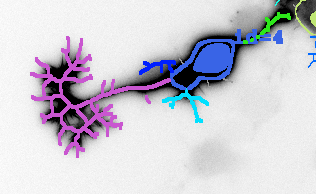
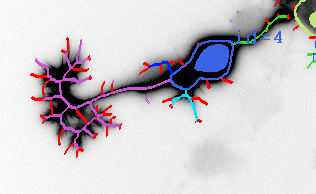
isbi

diff --git a/papers/13/ISBI/results.tex b/papers/13/ISBI/results.tex
@@ -31,7 +31,7 @@
       enhancement/retardation of nucleus speed,  which was impossible to observe
       through static analysis.  }
     \label{fig:quantitative_analysis}
-    %\vspace{-7mm}
+    \vspace{-4mm}
 \end{figure*}
 %----------------------------------------------------------------------------
 
@@ -62,9 +62,9 @@ of~\cite{Pertz08}, 2) quantify previously observed but unmeasured morphodynamics
 and 3) uncover  new dynamic behaviors.
 A brief summary of our findings is provided below and in 
 Fig~\ref{fig:quantitative_analysis}. Further details can be found in our 
-supplementary tables and videos.
-%\href{http://www.kev-smith.com/ISBI2013/}{online supplementary tables and videos}.
-The findings reported below all have statistically  significant measures,  with 
+%supplementary tables and videos.
+\href{http://www.kev-smith.com/ISBI2013/}{online supplementary tables and videos}.
+Findings reported below have statistically significant measures,  with 
 a $p$-value $<< 0.05$.
 
 
@@ -74,8 +74,8 @@ resulted in fewer but longer neurites than the control. SrGap loss was
 found to have longer neurites, and  Map2K7 loss was found to have
 more neurites but of shorter length.  These findings  were confirmed by 
 static measures from
-our experiments: the mean longest  neurite length -- control $22.6 \mu
-m$, RhoA-3 $32  \mu$m, SrGap2-1 $28.9 \mu$m,  and Map2K7-1 $19.5 \mu$m  
+our experiments: the mean longest  neurite length -- control $22.6 \mu$m,
+ RhoA-3 $32  \mu$m, SrGap2-1 $28.9 \mu$m,  and Map2K7-1 $19.5 \mu$m  
 (see  Fig.~\ref{fig:quantitative_analysis}a);  and  by  a  dynamic
 measure --  the mean  number of neurites  belonging a neuron  over its
 lifetime: control 3.4, RhoA 3.1, and Map2K7-1 3.9.
@@ -85,18 +85,21 @@ SrGap2 function  produces a  high number of  filopodia, and  that RhoA
 loss  results  in neurites  that  easily  extend  but have  difficulty
 retracting. Morphodynamic features from our analysis confirmed these
 observations. Mean number of filopodia detected per  neurite over its lifetime was $6.69$
-in the control  and $8.81$ for SrGap-3$^1$. The  mean change in elongation
+in the control  and $8.81$ for SrGap-3.%$^1$. 
+The  mean change in elongation
 as measured  by an ellipse fitted  to the neurite was  $5.7\%$ for the
 control        and        $5.3\%$        for        RhoA-1        (see
-Fig.~\ref{fig:quantitative_analysis}b)$^1$. While this difference may seem
+Fig.~\ref{fig:quantitative_analysis}b).
+%$^1$. 
+While this difference may seem
 small,  it is  statiscially significant due  to the  large amount  of  data collected
-($p$-value is $2 \times 10^{-7}$).
+($p$-value of $2 \times 10^{-7}$).
 
 Our quantitative analysis revealed new morphodynamics which
 were not obvious to human  observers. We found that RhoA function loss
 slowed  neuron motility and  Map2K7 increased  it.  Control cells
-moved at  .30 $\mu  m / min$,  RhoA moved  at .23 $\mu  m /  min$, and
-Map2K7-2     moved     at    .37     $\mu     m     /    min$     (see
+moved at  .30 $\mu  \text{m} / \text{min}$,  RhoA moved  at .23 $\mu  \text{m} /  \text{min}$, and
+Map2K7-2     moved     at    .37     $\mu     \text{m}     /    \text{min}$     (see
 Fig.~\ref{fig:quantitative_analysis}c).  We  also found that  RhoA and
 SrGap  increased the  branching of  the
 neurites.
@@ -104,8 +107,9 @@ neurites.
 Over the course
 of a  neurites lifetime, the maximum  number of branches  in a control
 neuron    was    14.5,   19.44    for    RhoA-3,    and   21.39    for
-SrGap2-3\footnote{Only neurons containing  the  $10^{th}$  percentile  of
-  longest neurites were considered.}.
+SrGap2-3.
+
+%\footnote{Only neurons containing  the  $10^{th}$  percentile  of longest neurites were considered.}.
 
 
 

diff --git a/papers/13/ISBI/intro.tex b/papers/13/ISBI/intro.tex
@@ -70,9 +70,9 @@ new dynamic behaviors which are only apparant through dynamic analysis.
 %----------------------------------------------------------------------------
 \begin{figure*}[t]
        \begin{tabular}{@{\hspace{0mm}}c@{}|@{}c@{}|@{}c@{}}
-        \includegraphics[width=60mm] {images/mv1_008_crop.png} &
-        \includegraphics[width=60mm] {images/mv1_017_crop.png}  &
-        \includegraphics[width=60mm] {images/mv1_026_crop.png} \\ [-.8ex]
+        \includegraphics[width=60mm] {images/mv1_008.png} &
+        \includegraphics[width=60mm] {images/mv1_017.png}  &
+        \includegraphics[width=60mm] {images/mv1_026.png} \\ [-.8ex]
         \hline \\ [-2.9ex]
        \end{tabular} 
       \begin{tabular}{@{\hspace{0mm}}c@{}c@{}|@{}c@{}c@{}|@{}c@{}c@{}}
@@ -88,15 +88,19 @@ new dynamic behaviors which are only apparant through dynamic analysis.
       \end{tabular} 
     \vspace{-2mm}  
     \caption{\footnotesize Our approach tracks and segments the entire neuron. The top
-        row contains our results from an experiment where 
-	MAP2K7 gene functions are inhibited.  Image contrast has been 
-	enhanced for visibility.  Tracked neurons are marked by a unique color and id.   
+        row contains results from an experiment with inhibited 
+	MAP2K7 functions.    Tracked neurons are marked by a unique color and id.   
 	Nuclei  are denoted  by  filled  ellipsoids, somata  as
         contours,  and neurites  as trees.   The bottom shows details
         from  above: {\it (left)}  original  image {\it (right)}  individual neurites
-        marked with a different colors. Our  approach   performs  well  even  in  challenging
-        situations where neurons appear in close proximity. Note: faintly  stained
-        cells are ignored for robustness.}
+        marked with various colors. Filopodia are marked in red. 
+	Our  approach   performs  well  even  in  challenging
+        situations where neurons appear in close proximity. Note: contrast has been 
+	enhanced for visibility, faintly  stained
+        cells are ignored for robustness.
+	Video results can be viewed in our 
+	\href{http://www.kev-smith.com/ISBI2013/}{online supplementary tables and videos}.
+	}
     \label{fig:video}
 \vspace{-4mm}
 \end{figure*}

diff --git a/papers/13/ISBI/top.tex b/papers/13/ISBI/top.tex
@@ -54,7 +54,7 @@ for High-Throughput Live Cell Time-Lapse Datasets}
 %\author{author1\inst{1} \and author2\inst{1,2}  \and author3\inst{3}
 %\name{Author(s) Name(s)\thanks{Thanks to XYZ agency for funding.}}
 %\address{Author Affiliation(s)}
-\name{Germ\'{a}n Gonz\'{a}lez$^{1}$, Ludovico Fusco$^{2}$, Fethallah Benmansour$^{3}$, Olivier Pertz$^{2}$, Kevin Smith$^{4}$}
+\name{Germ\'{a}n Gonz\'{a}lez$^{1}$, Ludovico Fusco$^{2}$, Fethallah Benmansour$^{3}$, Pascal Fua$^{3}$, Olivier Pertz$^{2}$, Kevin Smith$^{4}$}
 \address{$^{1}$ Research Laboratory of Electronics, MIT \hspace{5mm} 
          $^{2}$ Institute of Biochemistry, University of Basel \\
          $^{3}$ Computer Vision Lab, EPFL \hspace{5mm} 
